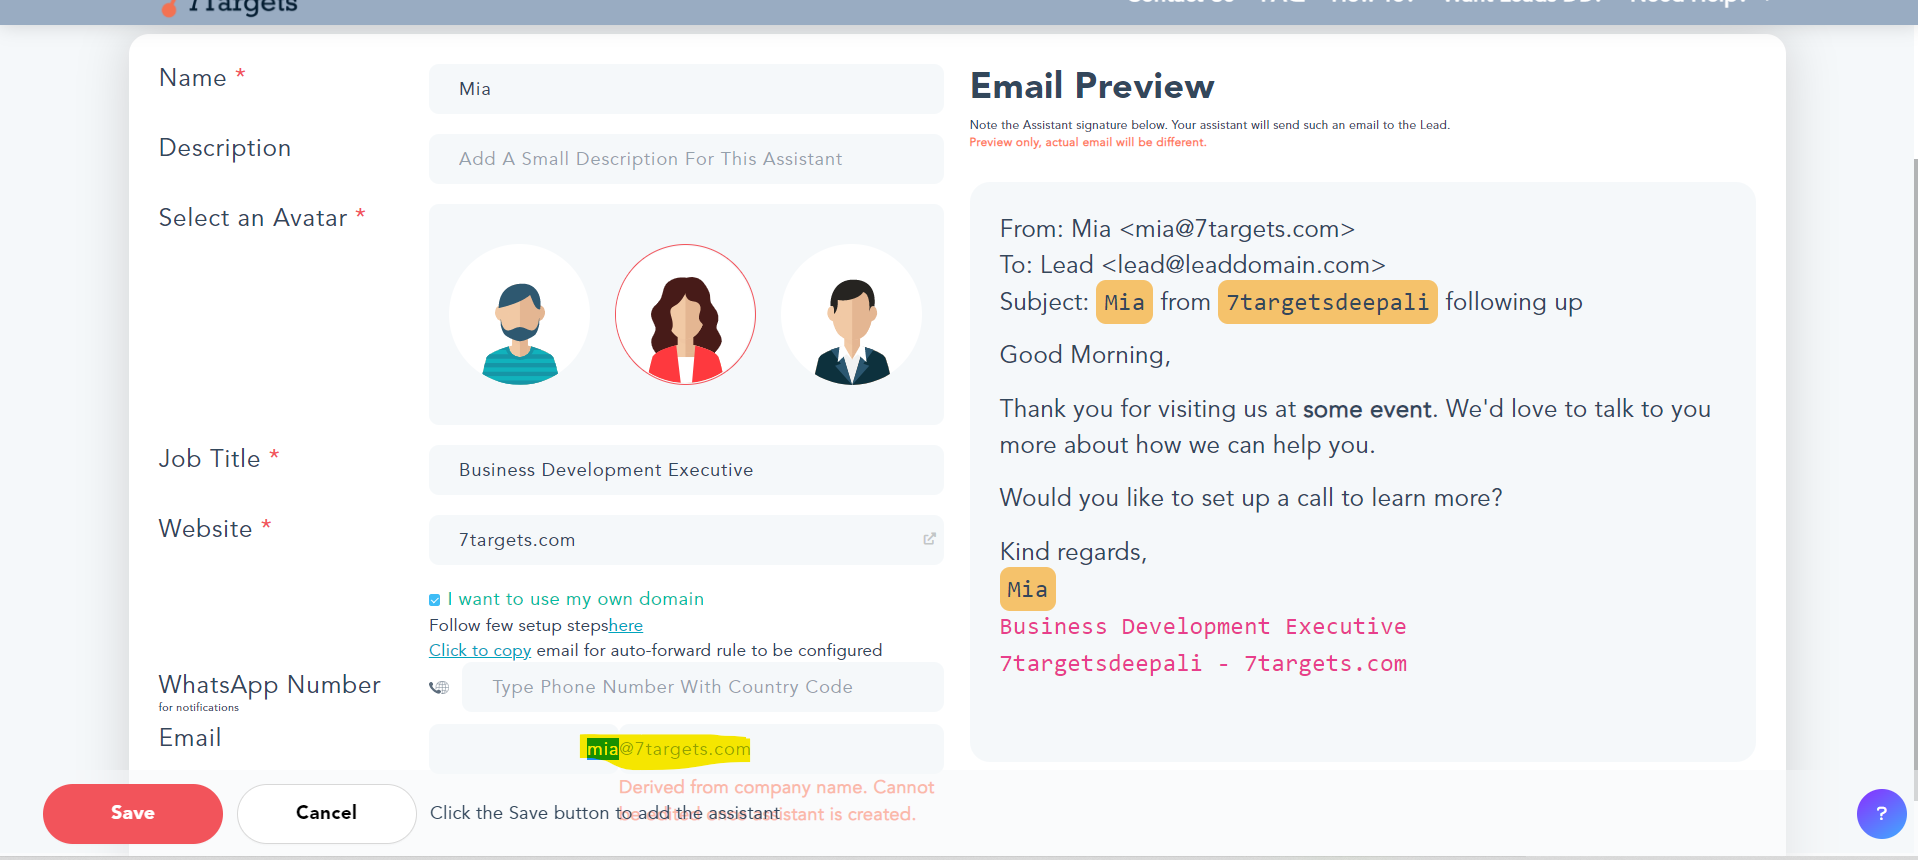
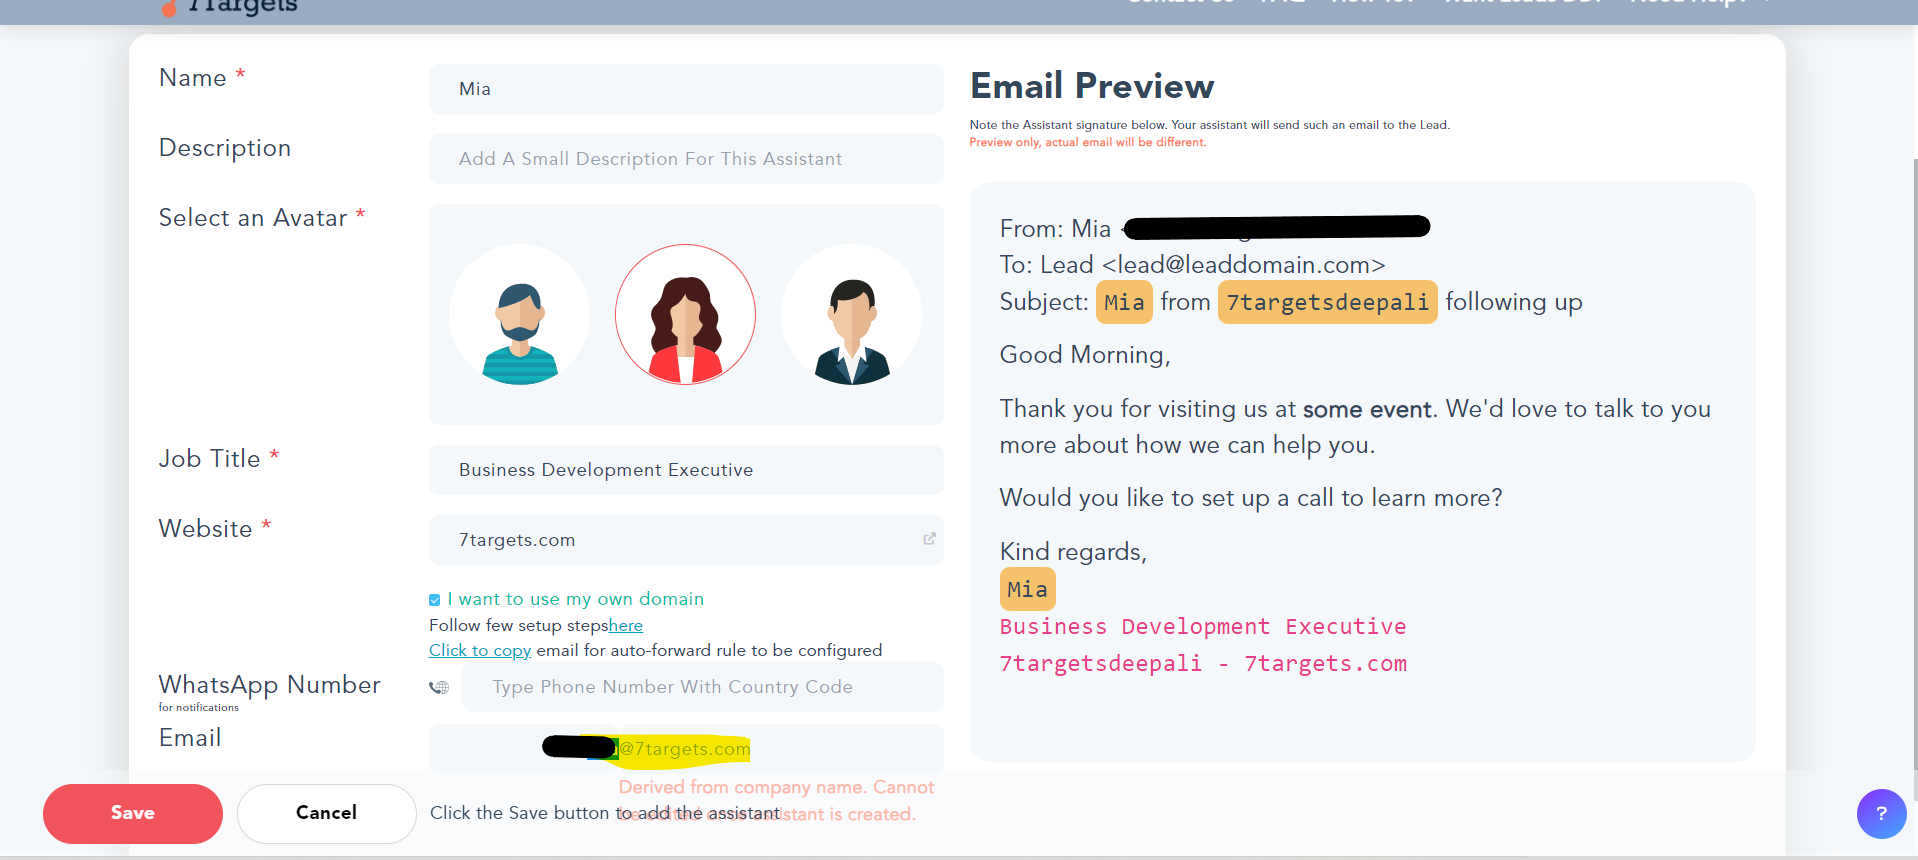
blurred out emails in pics

Changed region(s): [[0.5845, 0.2419, 0.769, 0.3023], [0.2769, 0.8465, 0.3384, 0.907]]

diff --git a/_posts/2023-05-25-how-to-create-assistant-to-use-outlook-domain.md b/_posts/2023-05-25-how-to-create-assistant-to-use-outlook-domain.md
@@ -41,14 +41,14 @@ On clicking it, you would be asked to authorize the OUTLOOK account you want to 
 ![Outlook 1](../../images/outlook_image1.png)
 ![Outlook 2](../../images/outlook_image2.png)
 ![Outlook 3](../../images/outlook_image3.png)
-![Outlook 4](../../images/outlook_image4.png)
-![Outlook 5](../../images/outlook_image5.png)
-![Outlook 6](../../images/outlook_image6.png)
+![Outlook 4](../../images/outlook_image4.jpg)
+![Outlook 5](../../images/outlook_image5.jpg)
+![Outlook 6](../../images/outlook_image6.jpg)
 
 Once Authorization is done,the following screen will be shown
 ![Outlook 7](../../images/outlook_image7.png)
 We can verify the Assistant Deepali is created in Assistant’s Page.
-![Outlook 8](../../images/outlook_image8.png)
+![Outlook 8](../../images/outlook_image8.jpg)
 ## Step 3:
 To start work on leads, you need to assign them to Deepali Assistant. To check status of leads, you can check it in Deepali Assistant. You can ignore John Assistant for all everyday usability purposes.  
   
